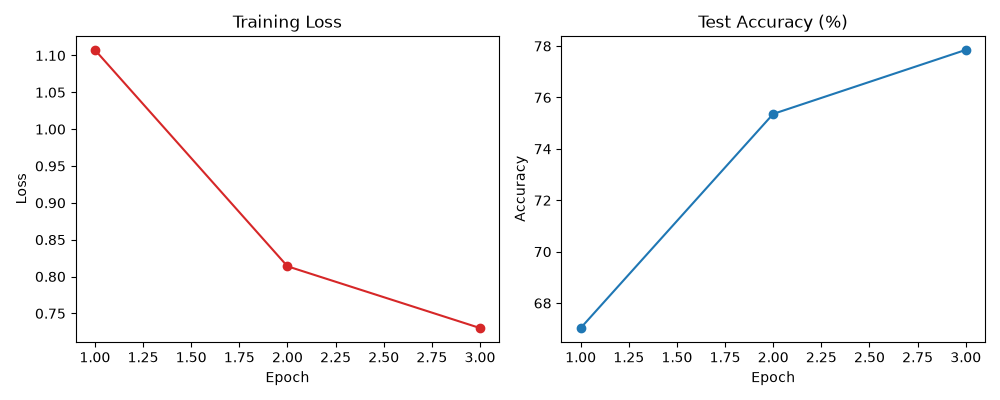
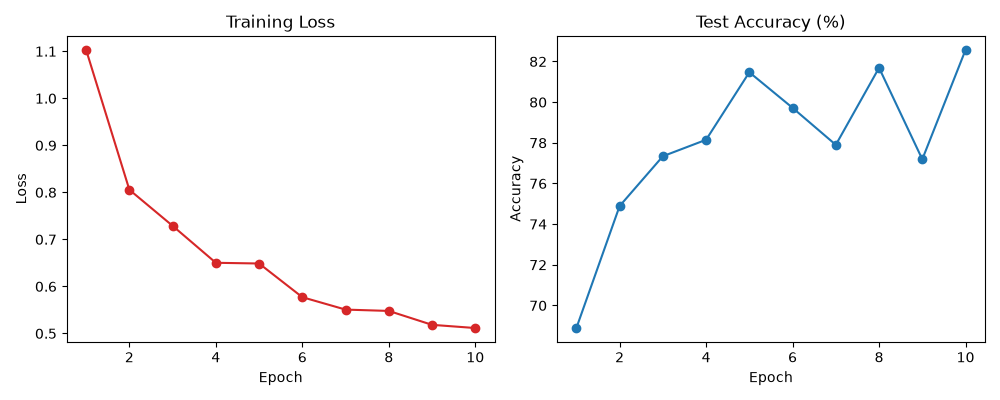
feat: add error analysis script and qualitative failure case study

diff --git a/error_analysis.py b/error_analysis.py
@@ -1,0 +1,84 @@
+import os
+import torch
+import torchvision
+import torchvision.transforms as transforms
+from torchvision.models import resnet18, ResNet18_Weights
+import torch.nn as nn
+import matplotlib.pyplot as plt
+import numpy as np
+
+def main():
+    # 1. Device Setup (GPU / MPS / CPU)
+    if torch.cuda.is_available():
+        device = torch.device("cuda")
+    elif torch.backends.mps.is_available():
+        device = torch.device("mps")
+    else:
+        device = torch.device("cpu")
+
+    classes = ['airplane', 'automobile', 'bird', 'cat', 'deer', 
+               'dog', 'frog', 'horse', 'ship', 'truck']
+
+    # 2. Test Data Loading with Normalization
+    transform_test = transforms.Compose([
+        transforms.ToTensor(),
+        transforms.Normalize((0.4914, 0.4822, 0.4465), (0.2023, 0.1994, 0.2010)),
+    ])
+
+    testset = torchvision.datasets.CIFAR10(root='./data', train=False, download=False, transform=transform_test)
+    testloader = torch.utils.data.DataLoader(testset, batch_size=64, shuffle=False)
+
+    # 3. Model Architecture Setup
+    model = resnet18(weights=ResNet18_Weights.DEFAULT)
+    model.fc = nn.Linear(model.fc.in_features, 10)
+    model = model.to(device)
+    model.eval()
+
+    # 4. Collect 5 Misclassified Samples
+    misclassified_images = []
+    misclassified_labels = []
+    misclassified_preds = []
+
+    print("[*] Finding error samples...")
+    with torch.no_grad():
+        for inputs, labels in testloader:
+            inputs, labels = inputs.to(device), labels.to(device)
+            outputs = model(inputs)
+            _, preds = outputs.max(1)
+
+            wrong_idx = (preds != labels).nonzero(as_tuple=False)
+            for idx in wrong_idx:
+                i = idx.item()
+                misclassified_images.append(inputs[i].cpu())
+                misclassified_labels.append(labels[i].item())
+                misclassified_preds.append(preds[i].item())
+
+                if len(misclassified_images) == 5:
+                    break
+            if len(misclassified_images) == 5:
+                break
+
+    # 5. Visualize and Save 5 Misclassified Samples
+    os.makedirs('results', exist_ok=True)
+    plt.figure(figsize=(15, 3))
+
+    mean = np.array([0.4914, 0.4822, 0.4465])
+    std = np.array([0.2023, 0.1994, 0.2010])
+
+    for i in range(5):
+        plt.subplot(1, 5, i + 1)
+        img = misclassified_images[i].permute(1, 2, 0).numpy()
+        img = std * img + mean
+        img = np.clip(img, 0, 1)
+
+        plt.imshow(img)
+        plt.title(f"True: {classes[misclassified_labels[i]]}\nPred: {classes[misclassified_preds[i]]}", 
+                  color='red', fontsize=11)
+        plt.axis('off')
+
+    plt.tight_layout()
+    plt.savefig('results/error_analysis.png')
+    print("[+] Done! Error analysis plot saved to results/error_analysis.png")
+
+if __name__ == '__main__':
+    main()

diff --git a/main.py b/main.py
@@ -48,8 +48,8 @@ def main():
     criterion = nn.CrossEntropyLoss()
     optimizer = optim.AdamW(model.parameters(), lr=1e-3, weight_decay=1e-4)
 
-    # 6. Training Loop (3 Epochs)
-    epochs = 3
+    # 6. Training Loop (10 Epochs)
+    epochs = 10
     train_losses, test_accuracies = [], []
 
     print("[*] Starting Training...")
